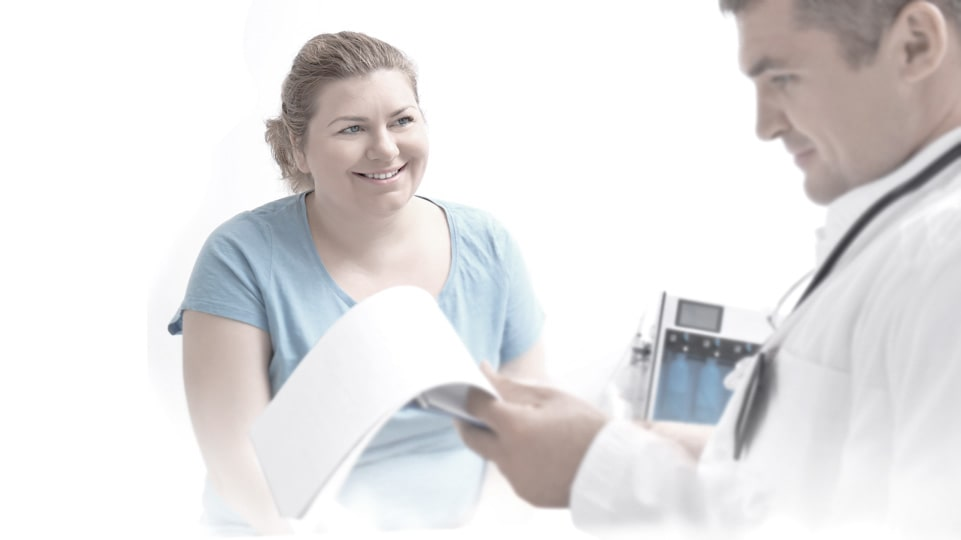
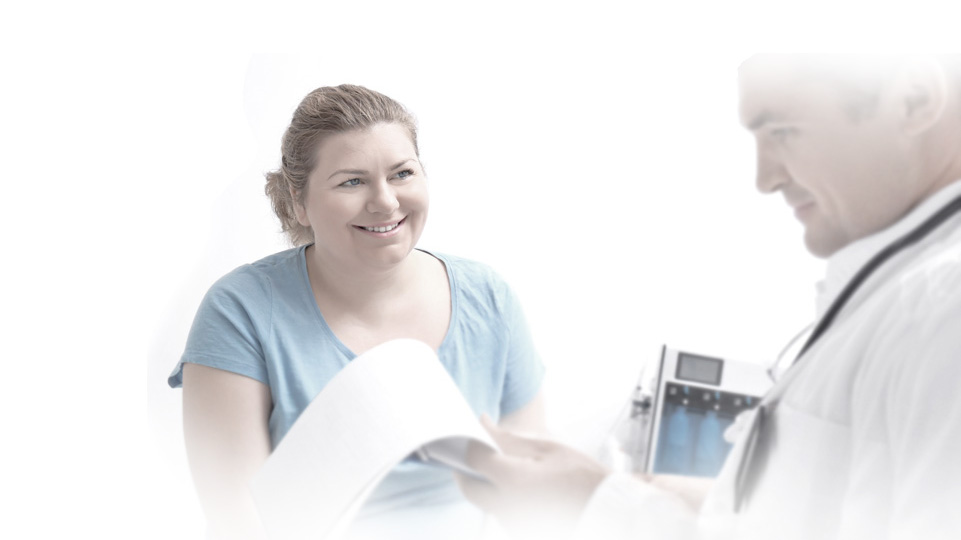
Ajustes texto about, imagen gorda

diff --git a/assets/css/maximizin-weight-loss.css b/assets/css/maximizin-weight-loss.css
@@ -153,7 +153,7 @@ section#maximizing-weight-loss{
   #maximizing-weight-loss .bg-img{
     /*background: linear-gradient(to bottom, rgba(235, 235, 240, 1)80%, rgba(255, 255, 255, 1));*/
     background-repeat: no-repeat;
-    background-position: right;
+    background-position: right top;
     /*background-size: 50% 100%;*/
     background-image: url(../images/background/maximizing-header-lg.jpg);
     background-size: 50% auto;

diff --git a/about.php b/about.php
@@ -81,13 +81,12 @@
               <div data-toggle="appear" data-appear-class="fadeInDownTwo delay-500" class="appear">
                 <p>
                   <strong>ABOUT US</strong><br>
-                  Phenomix Sciences was established in Rochester, MN in 2017 by two leading NIH-funded obesity experts, Dr. Andres Acosta and Dr. Michael Camilleri.<br>
-                  In early 2019, we established a start of the art facility located in University Enterprise Laboratories in St. Paul, MN. Our space is equipped with the latest platforms for metabolomic, genomic, and hormonal testing, as well as biobanking facilities to support the development and validation of the PhenoTest under strict adherence to regulatory guidelines. With the CLIA-accreditation process underway, we are anticipating launch of the PhenoTest by early 2020.
+                  Phenomix Sciences was established in Rochester, MN in 2017 by two leading NIH-funded obesity experts, Dr. Andres Acosta and Dr. Michael Camilleri. In early 2019, we established a start of the art facility located in University Enterprise Laboratories in St. Paul, MN. Our space is equipped with the latest platforms for metabolomic, genomic, and hormonal testing, as well as biobanking facilities to support the development and validation of the PhenoTest under strict adherence to regulatory guidelines. With the CLIA-accreditation process underway, we are anticipating launch of the PhenoTest by early 2020.
                 </p>
               </div>
               <div data-toggle="appear" data-appear-class="fadeInDownTwo delay-500" class="appear">
                 <p>
-                  <strong>Our Mission, Vision, and Values</strong>
+                  <strong>Our Mission and Vision</strong>
                 </p>
               </div>
               <div class="row">
@@ -102,7 +101,7 @@
                 <div class="col-6">
                   <div data-toggle="appear" data-appear-class="fadeInDownTwo delay-500" class="appear">
                     <p>
-                      <strong>Mission</strong><br>
+                      <strong>Vision</strong><br>
                       By delivering transformative new tools and services for the treatment of obesity, we envision bringing an end the obesity epidemic, one patient at a time.
                     </p>
                   </div>

diff --git a/index/seccion2.php b/index/seccion2.php
@@ -6,7 +6,7 @@
           <div class="row h-100">
             <div class="col-12 col-lg-6 h-100 d-flex align-items-center bg-gradient">
               <div class="content">
-                <img class="img-fluid d-lg-none" src="assets/images/background/maximizing-header-lg.jpg" alt="">
+                <img class="img-fluid d-lg-none" src="assets/images/background/maximizing-header-lg-old.jpg" alt="">
                 <h1 data-toggle="appear" data-appear-class="fadeInDown" class="appear">
                   You are Unique
                 </h1>
